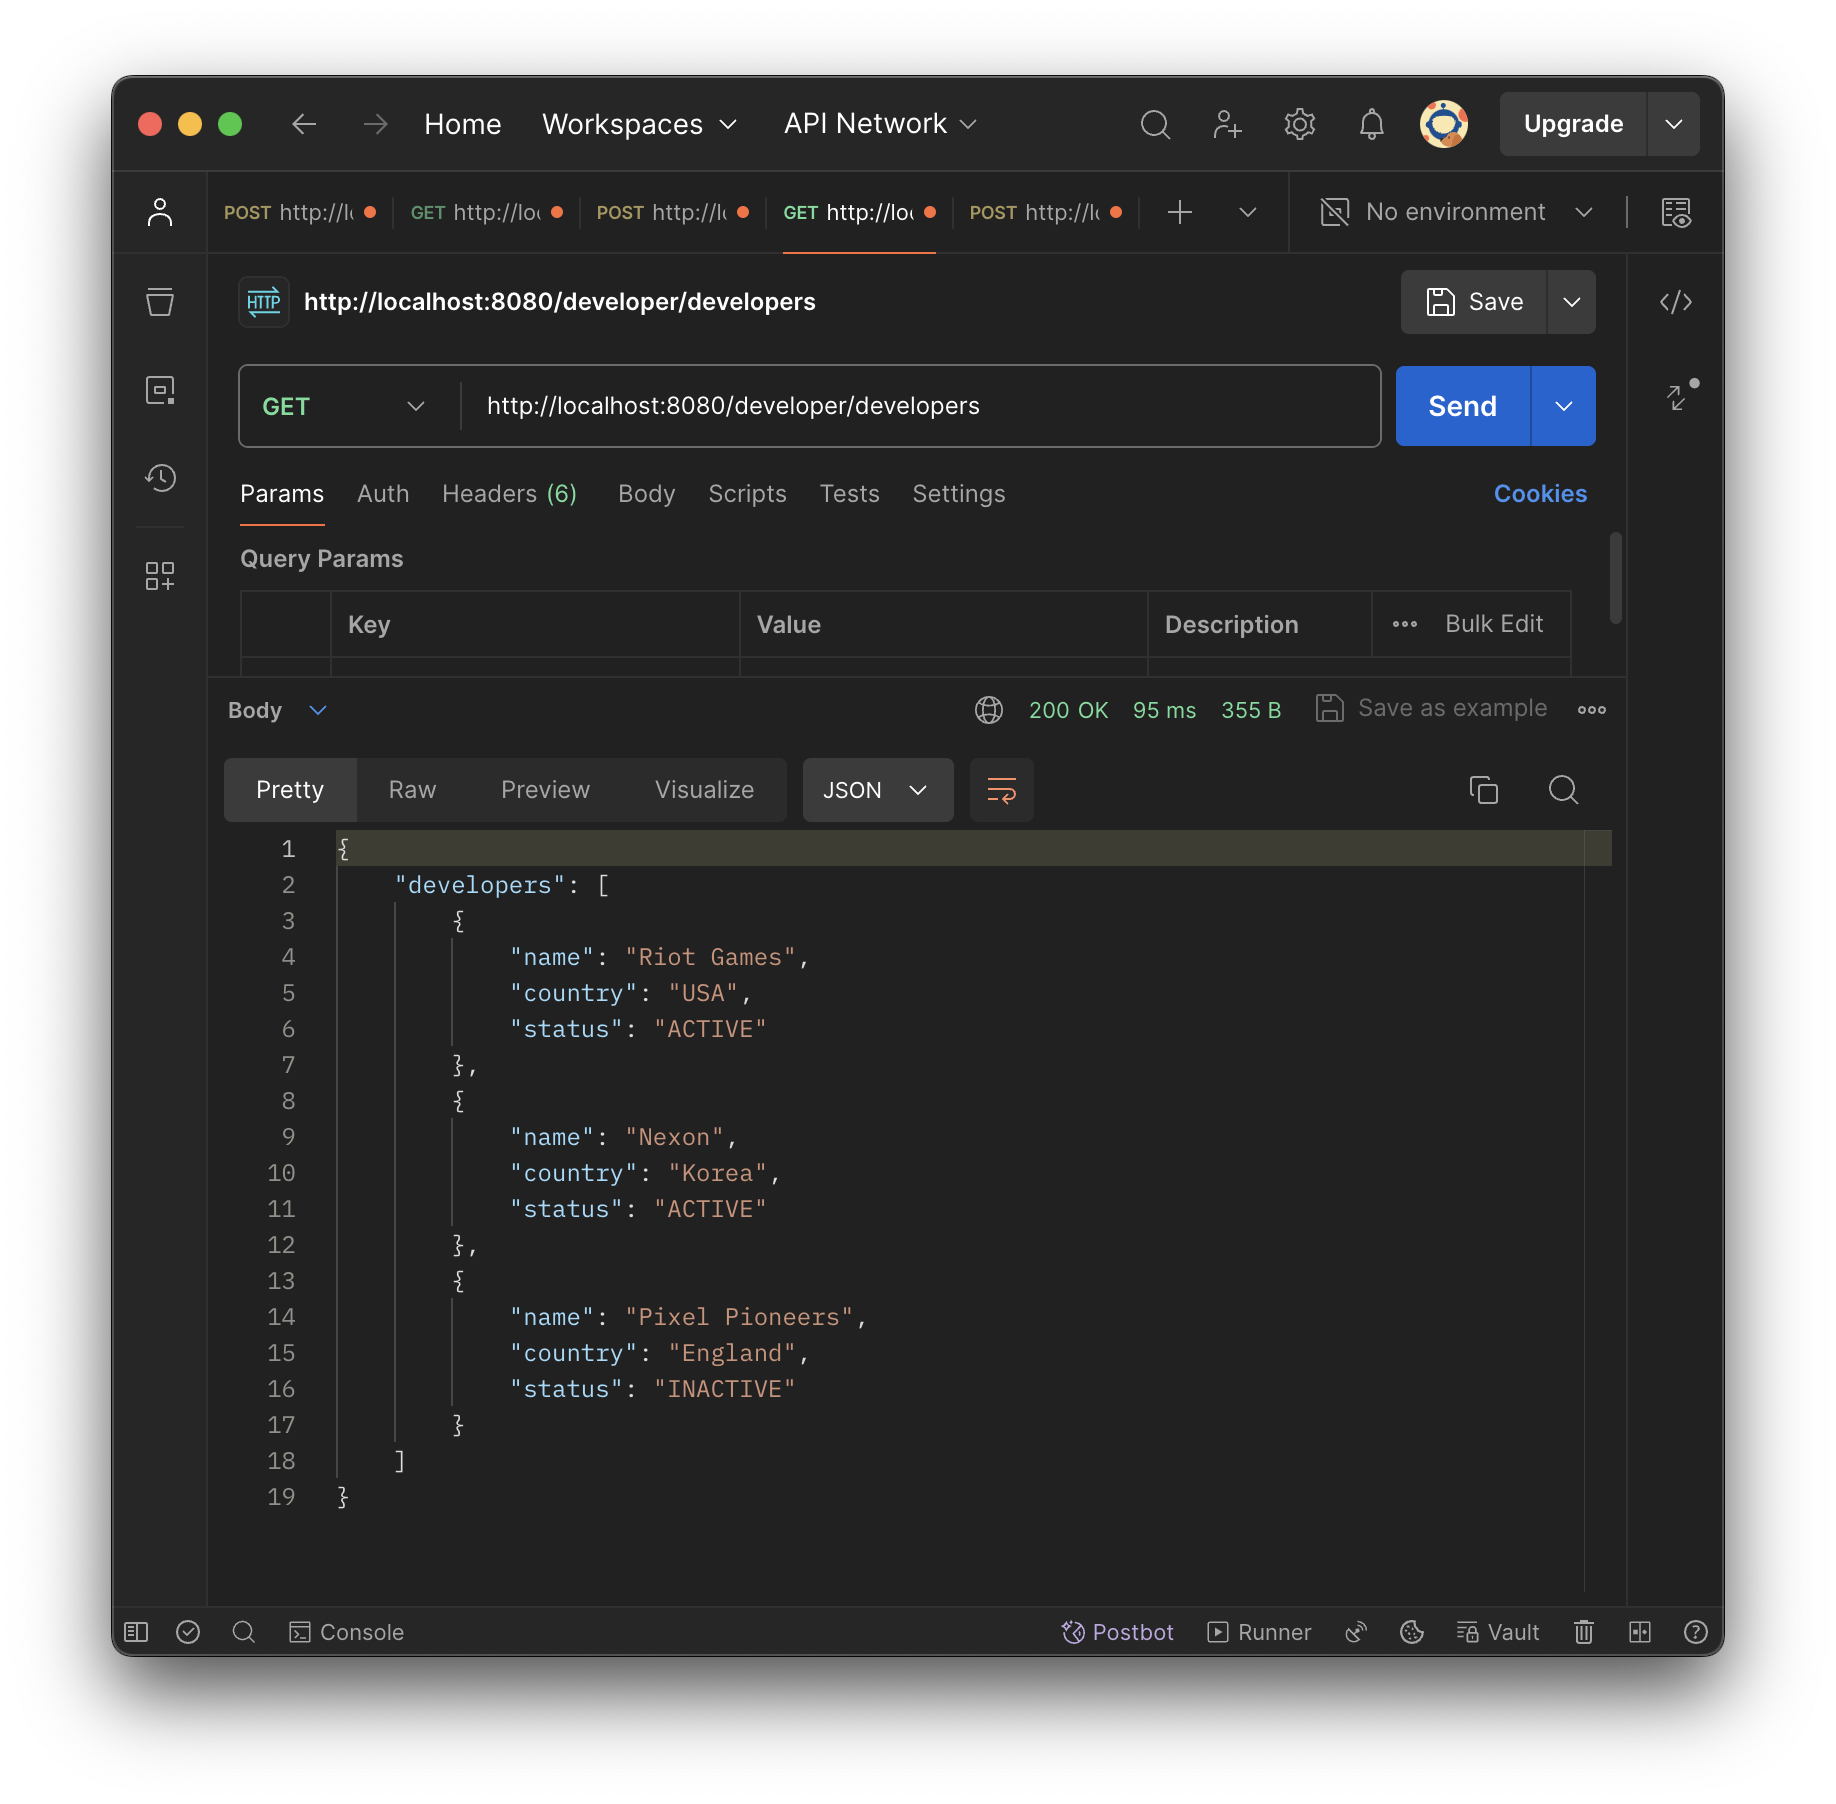
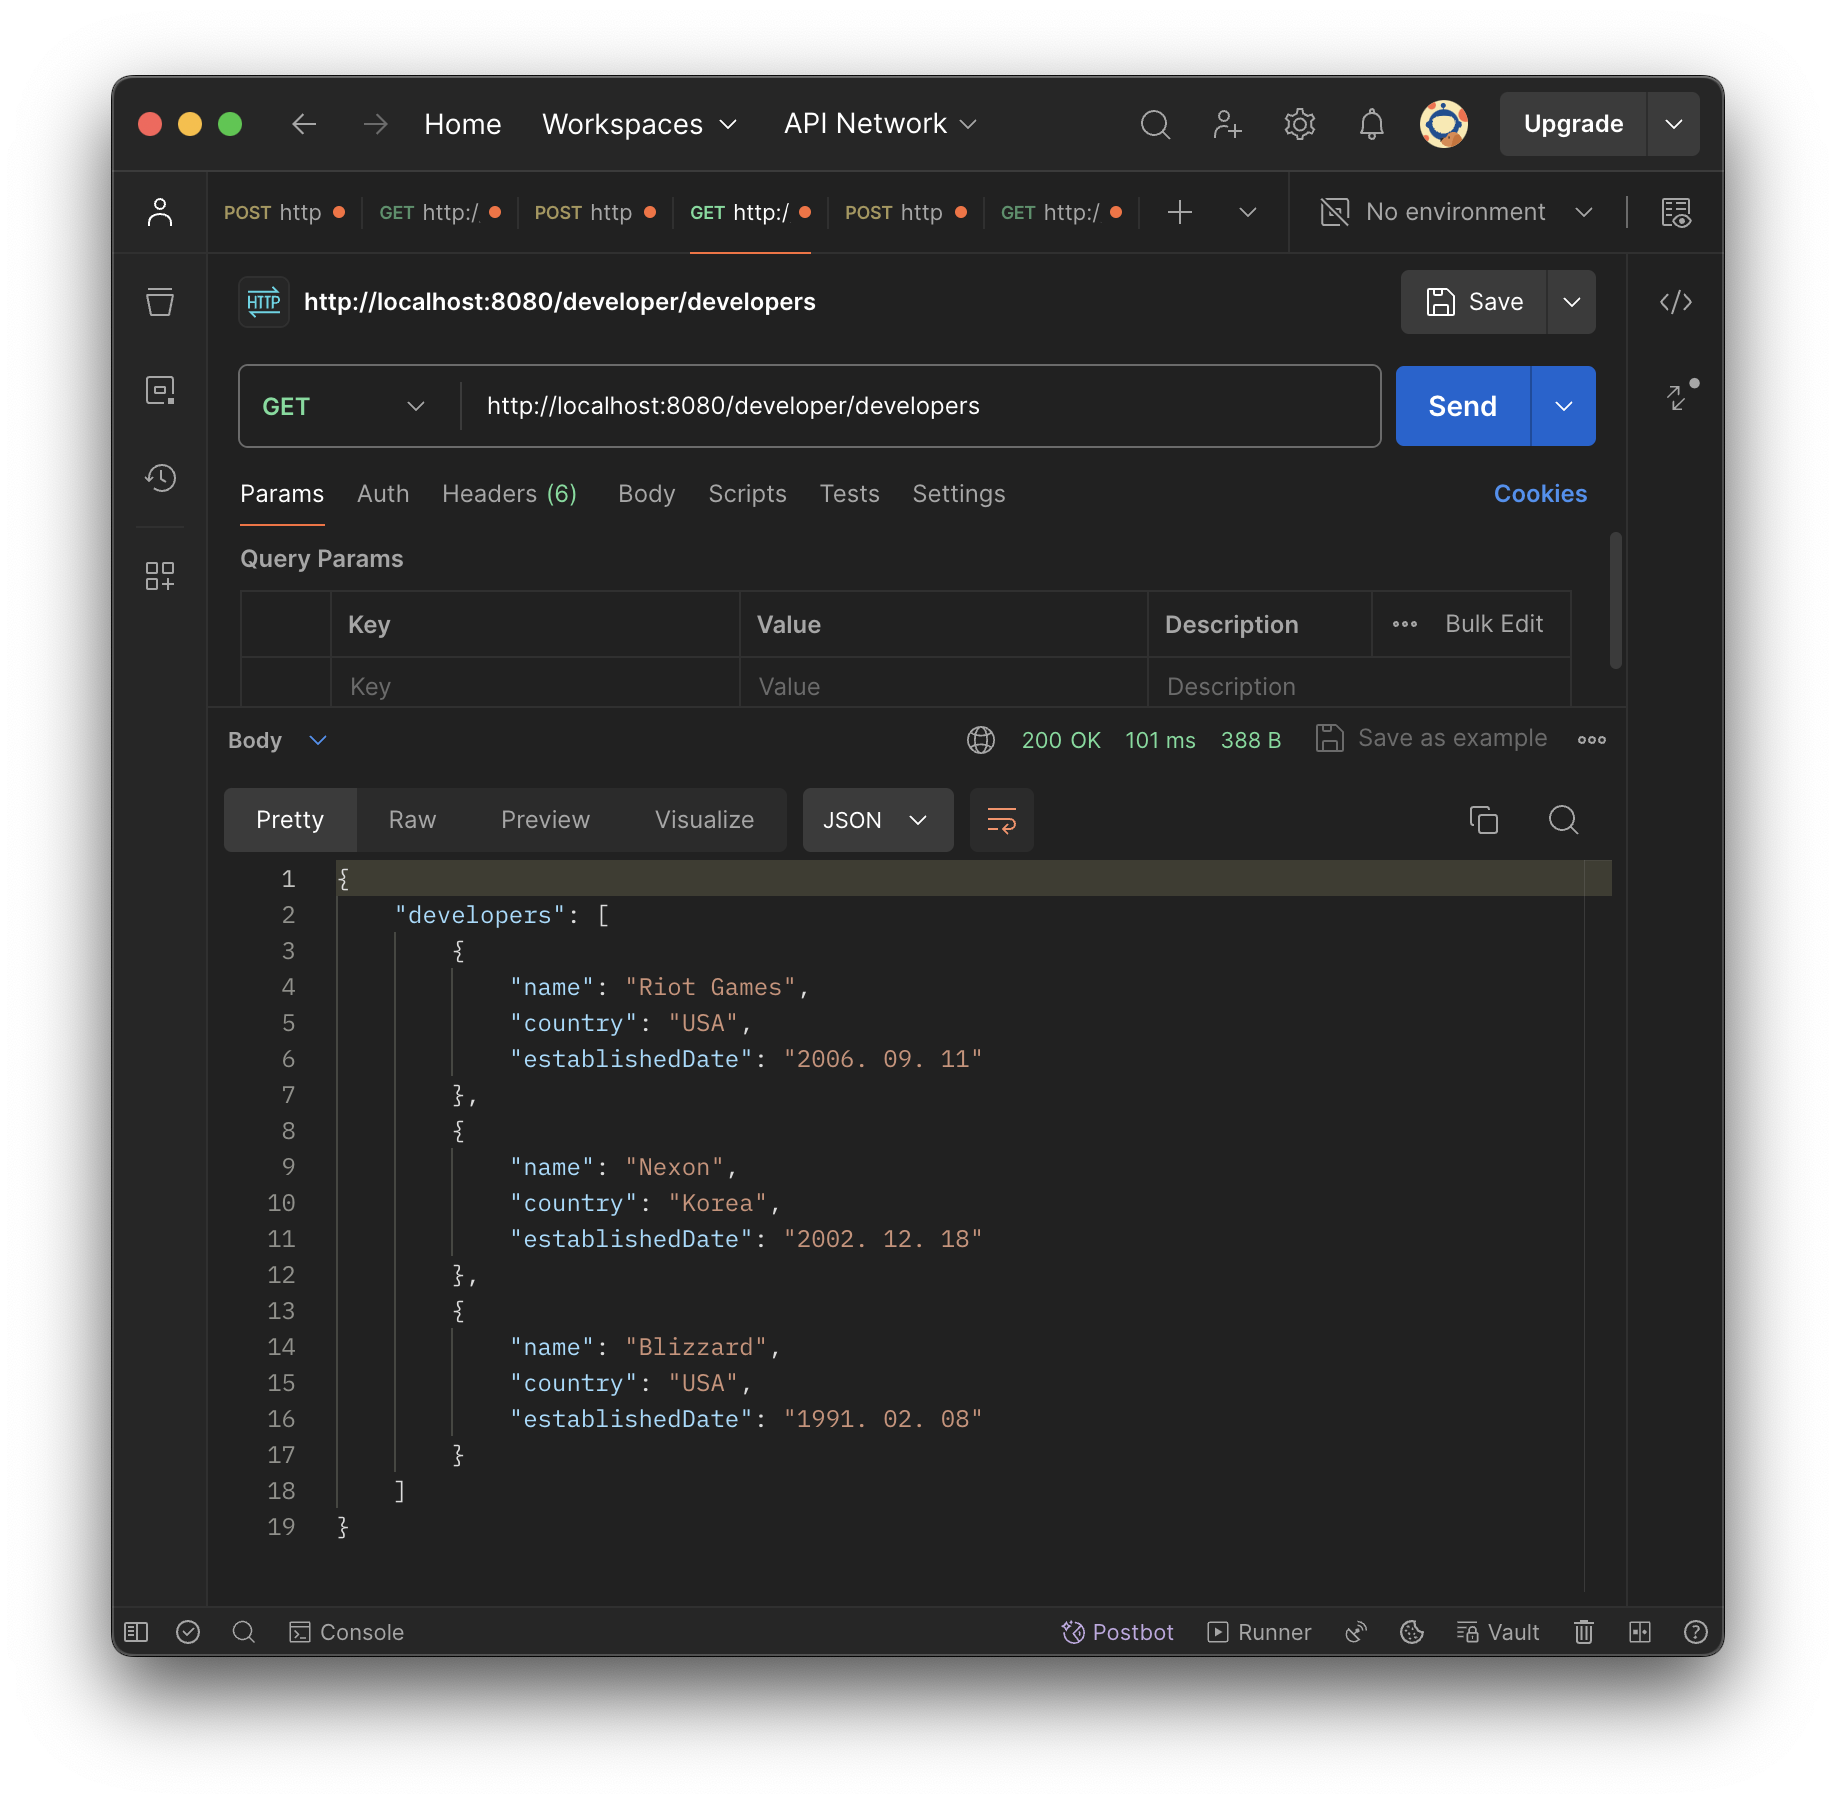
refactor: Developer 도메인의 Status 속성 제거, establishedDate 속성 추가

diff --git a/kangduoh/likelion-assignment-crud/src/main/java/org/likelion/likelionassignmentcrud/developer/api/dto/response/DeveloperInfoResDto.java b/kangduoh/likelion-assignment-crud/src/main/java/org/likelion/likelionassignmentcrud/developer/api/dto/response/DeveloperInfoResDto.java
@@ -2,19 +2,18 @@ package org.likelion.likelionassignmentcrud.developer.api.dto.response;
 
 import lombok.Builder;
 import org.likelion.likelionassignmentcrud.developer.domain.Developer;
-import org.likelion.likelionassignmentcrud.developer.domain.Status;
 
 @Builder
 public record DeveloperInfoResDto(
         String name,
         String country,
-        Status status
+        String establishedDate
 ) {
     public static DeveloperInfoResDto from(Developer developer) {
         return DeveloperInfoResDto.builder()
                 .name(developer.getName())
                 .country(developer.getCountry())
-                .status(developer.getStatus())
+                .establishedDate(developer.getEstablishedDate())
                 .build();
     }
 }

diff --git a/kangduoh/likelion-assignment-crud/src/main/java/org/likelion/likelionassignmentcrud/developer/domain/Developer.java b/kangduoh/likelion-assignment-crud/src/main/java/org/likelion/likelionassignmentcrud/developer/domain/Developer.java
@@ -22,17 +22,15 @@ public class Developer {
 
     private String name;
     private String country;
-
-    @Enumerated(EnumType.STRING)
-    private Status status;
+    private String establishedDate;
 
     @OneToMany(mappedBy = "developer", cascade = CascadeType.ALL, orphanRemoval = true)
     private List<Game> games = new ArrayList<>();
 
     @Builder
-    private Developer(String name, String country, Status status) {
+    private Developer(String name, String country, String establishedDate) {
         this.name = name;
         this.country = country;
-        this.status = status;
+        this.establishedDate = establishedDate;
     }
 }

diff --git a/kangduoh/likelion-assignment-crud/src/main/java/org/likelion/likelionassignmentcrud/developer/application/DeveloperService.java b/kangduoh/likelion-assignment-crud/src/main/java/org/likelion/likelionassignmentcrud/developer/application/DeveloperService.java
@@ -25,7 +25,7 @@ public class DeveloperService {
         Developer developer = Developer.builder()
                 .name(developerSaveReqDto.name())
                 .country(developerSaveReqDto.country())
-                .status(developerSaveReqDto.status())
+                .establishedDate(developerSaveReqDto.establishedDate())
                 .build();
 
         developerRepository.save(developer);

diff --git a/kangduoh/likelion-assignment-crud/src/main/java/org/likelion/likelionassignmentcrud/developer/api/dto/request/DeveloperSaveReqDto.java b/kangduoh/likelion-assignment-crud/src/main/java/org/likelion/likelionassignmentcrud/developer/api/dto/request/DeveloperSaveReqDto.java
@@ -1,11 +1,9 @@
 package org.likelion.likelionassignmentcrud.developer.api.dto.request;
 
-import org.likelion.likelionassignmentcrud.developer.domain.Status;
-
 public record DeveloperSaveReqDto(
-        // 이름, 국가, 상태
+        // 이름, 국가, 설립일
         String name,
         String country,
-        Status status
+        String establishedDate
 ) {
 }
